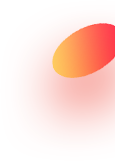
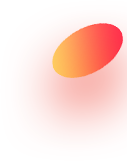
留言板，公共样式

Changed region(s): [[0.3913, 0.1242, 1.0, 0.4969], [0.7826, 0.3106, 0.8087, 0.3416], [0.7304, 0.3416, 0.7565, 0.3727]]

diff --git a/activity/tuandai161218/html/msgboard.html b/activity/tuandai161218/html/msgboard.html
@@ -1,0 +1,49 @@
+<!DOCTYPE html>
+<html>
+
+<head>
+    <meta charset="utf-8">
+    <meta http-equiv="X-UA-Compatible" content="IE=edge">
+    <meta name="viewport" content="initial-scale=1, user-scalable=0, minimum-scale=1.0, maximum-scale=1.0, shrink-to-fit=no" />
+    <meta name="format-detection" content="telephone=no">
+    <title>tuandai161218</title>
+    <!-- build:css(dist) ../css/main.css -->
+    <link rel="stylesheet" href="../css/media.css">
+    <link rel="stylesheet" href="../css/animation.css">
+    <link rel="stylesheet" href="../css/common.css">
+    <!-- endbuild -->
+    <link rel="stylesheet" href="../css/msgboard.css">
+    <!-- build:js({dist}) ../js/lib/adapt.js -->
+    <script src="../js/adapt.js" type="text/javascript" charset="utf-8"></script>
+    <!-- endbuild -->
+</head>
+
+<body>
+    <div class="scroll scroll-active">
+        <div class="content">
+            <div class="icon-block title"></div>
+            <section class="descri" id="descri">
+                团贷网的每一个网贷爱心日，感恩团粉的陪伴，支持...<i class="icon-inline-block icon-open-arrow"></i>
+            </section>
+            <section class="icon-block msg-board">
+                <i class="icon-yr-float"></i>
+                <i class="icon-hz-float"></i>
+                <ul>
+                    <li></li>
+                </ul>
+            </section>
+        </div>
+    </div>
+    <footer class="footer">
+        <a href="">爱心宝箱</a>
+        <a href="">爱心榜单</a>
+        <a href="" class="active">为爱发声</a>
+    </footer>
+</body>
+<!-- build:js({dist}) ../js/lib/fastclick-jquery-1.8.3.js -->
+<script src="../js/fastclick-jquery-1.8.3.js" type="text/javascript" charset="utf-8"></script>
+<!-- endbuild -->
+<script src="../js/Util.js" type="text/javascript" charset="utf-8"></script>
+<script src="../js/msgboard.js" type="text/javascript" charset="utf-8"></script>
+
+</html>

diff --git a/activity/tuandai161218/sass/msgboard.scss b/activity/tuandai161218/sass/msgboard.scss
@@ -1,0 +1,72 @@
+@charset "UTF-8";
+@import "variables";
+@import "../../../sass/func";
+
+.title {
+	@include icon-background('../images/title3.png', 628px, 138px);
+	margin-top: pxToRem(10px);
+	margin-left: pxToRem(44px);
+}
+.descri {
+	position: relative;
+	width: pxToRem(650px);
+	margin: 0 auto;
+	// margin
+	color: #fffbe8;
+	font-size: pxToRem(24px);
+	line-height: pxToRem(32px);
+	padding: pxToRem(20px) pxToRem(18px);
+	text-align: justify;
+	box-sizing: border-box;
+}
+.msg-board {
+	position: relative;
+	@include icon-background('../images/bg_board.png', 750px, 909px);
+	.icon-yr-float {
+		position: absolute;
+		right: 0;
+		top: pxToRem(-26px);
+	}
+	.icon-hz-float {
+		position: absolute;
+		left: 0;
+		bottom: pxToRem(-50px);
+	}
+}
+
+//icon
+.icon-open-arrow {
+	position: absolute;
+	right: 0;
+	top: pxToRem(4px);
+	width: pxToRem(58px);
+	height: pxToRem(58px);
+	&:before {
+		content: '';
+		position: absolute;
+		top: 50%;
+		margin-top: pxToRem(6px);
+		left: pxToRem(10px);
+		display: block;
+		width: pxToRem(20px);
+		height: pxToRem(2px);
+		border-radius: pxToRem(2px);
+		background-color: #ffe03e;
+		transform: rotateZ(40deg);
+		transform-origin: right;
+	}
+	&:after {
+		content: '';
+		position: absolute;
+		top: 50%;
+		margin-top: pxToRem(6px);
+		right: pxToRem(10px);
+		display: block;
+		width: pxToRem(20px);
+		height: pxToRem(2px);
+		border-radius: pxToRem(2px);
+		background-color: #ffe03e;
+		transform:rotateZ(-40deg);
+		transform-origin: left;
+	}
+}

diff --git a/activity/tuandai161218/sass/_sprite.scss b/activity/tuandai161218/sass/_sprite.scss
@@ -28,13 +28,16 @@
     @extend .icon-block;
     @include icon-background('../images/masker_txt.png', 703px, 90px);
 }
-
+.icon-hz-float {
+    @extend .icon-block;
+    @include icon-background('../images/hz-float.png', 119px, 179px);
+}
 .icon-lz-float {
     @include icon-background('../images/lz-float.png', 119px, 179px);
     @extend .icon-block;
 }
 
 .icon-yr-float {
-    @include icon-background('../images/yr-float.png', 115px, 161px);
+    @include icon-background('../images/yr-float.png', 127px, 161px);
     @extend .icon-block;
 }

diff --git a/activity/tuandai161218/js/msgboard.js b/activity/tuandai161218/js/msgboard.js
@@ -1,0 +1,8 @@
+(function() {
+    FastClick.attach(document.body);
+	    //do your thing.
+	    $("#descri").on("click", ".icon-open-arrow", function(e) {
+	    	console.log(1324234);
+	    	$("#descri").html("团贷网的每一个网贷爱心日，感恩团粉的陪伴，支持和信任。在这个特别的日子，我们一同为小微企业助力，一同为彼此加油鼓励，朝着爱心和梦想前行。请在这里留下您宝贵的祝福，让我们共同见证每一个12.18网贷爱心日。");
+	    });
+})();
